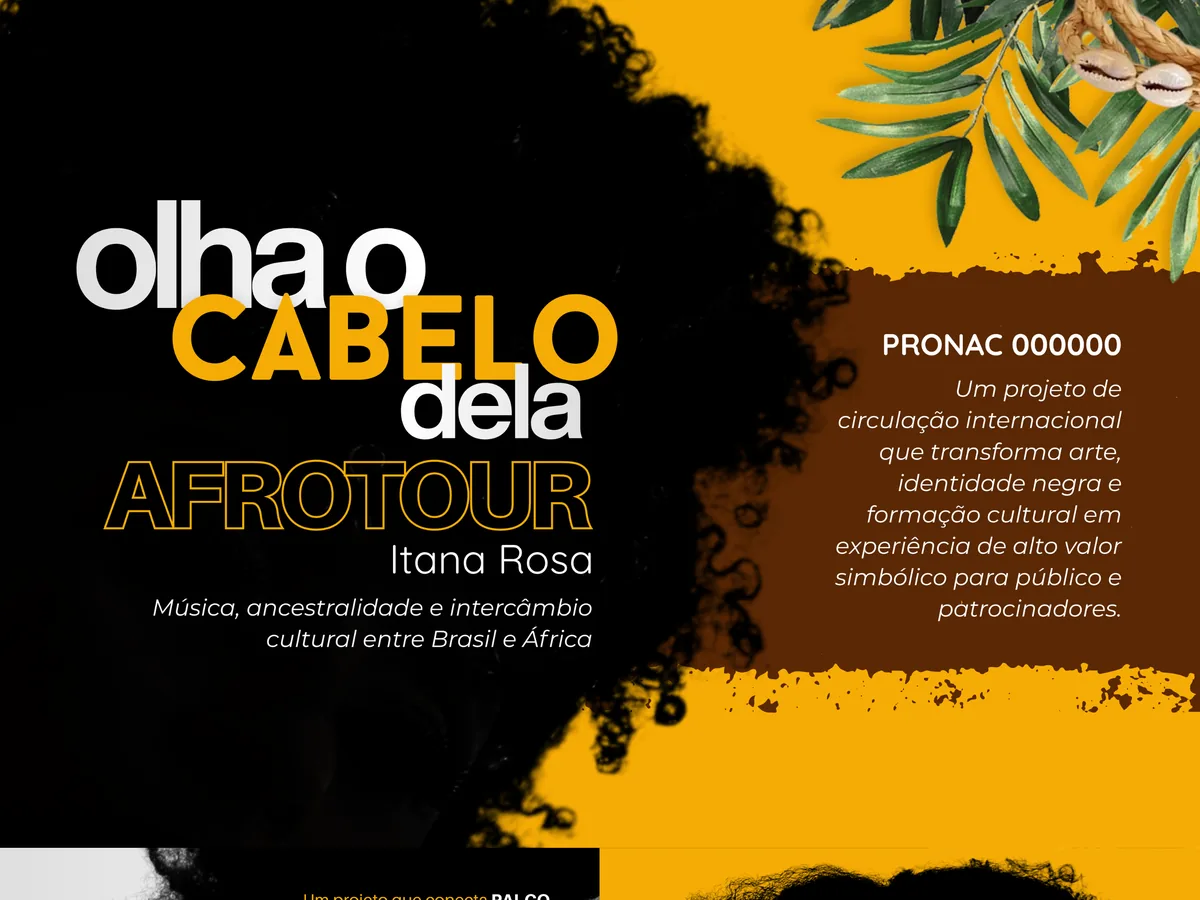
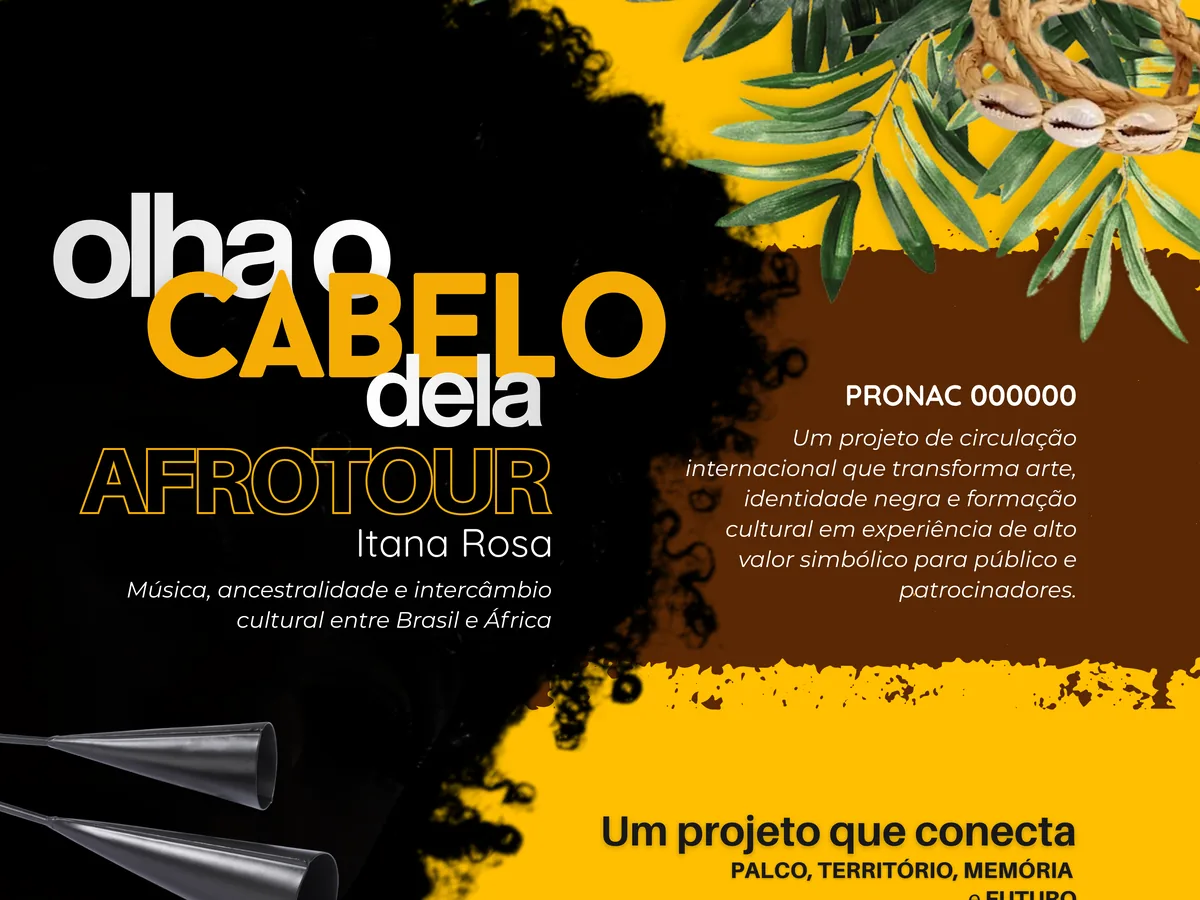
Olha o Cabelo dela: imagem nova do Drive e ficha narrativa; Orquestra sem a citação do maestro
Claude-Session: https://claude.ai/code/session_01RLZUj9rjpzXsmc93EoFHZf

diff --git a/assets/dados/trabalhos.js b/assets/dados/trabalhos.js
@@ -39,16 +39,24 @@ export const TRABALHOS = [
     resumo: "Book de captação do Afrotour de Itana Rosa, projeto de circulação internacional entre Brasil e África.",
     cliente: "Tabuleiro Produções",
     proponente: "Itana Rosa",
-    local: "",
+    local: "Salvador (BA)",
     ano: "2026",
-    sobre: "",
-    proposta: "",
-    resultado: "",
-    pecas: ["Identidade visual", "Book de captação"],
+    desafio:
+      "Um projeto ainda sem patrocínio precisava de um book que fizesse uma empresa enxergar, antes do primeiro show, o valor de colocar a marca ao lado dele.",
+    sobre:
+      "Liderado pela cantora baiana Itana Rosa, o Afrotour é um projeto internacional de intercâmbio cultural entre o Brasil e o continente africano, com shows, formação artística e produção audiovisual. Ele nasce da canção autoral “Olha o cabelo dela”, que trata a estética negra como pertencimento, autoestima, ancestralidade e resistência. Para viajar, o projeto precisa de patrocínio, e o primeiro passo era apresentá-lo a quem pode investir.",
+    proposta:
+      "Escolhi o cabelo crespo como fio condutor do book. Ele aparece como protagonista em vários momentos, às vezes como uma silhueta que ocupa a página inteira, às vezes como moldura para o texto e para a própria artista. O preto, o amarelo e o marrom, junto com búzios, folhas e o agogô, fazem a ponte entre a Bahia e a África. A tipografia pesada leva o mesmo recado da canção: a identidade como marca de força e coragem.",
+    resultado:
+      "O book está pronto e é hoje o material com que a Tabuleiro apresenta o Afrotour a possíveis patrocinadores. Ele termina com um convite direto para que a empresa interessada converse com a produção. O projeto aguarda patrocínio para começar a circular.",
+    regua:
+      "Como o projeto ainda busca patrocínio, a régua de marcas ainda não existe. Por enquanto, o book fecha com a assinatura da Tabuleiro e o contato direto da produção.",
+    pecas: { Apresentação: ["Book de captação"] },
     capa: "/assets/imagens/trabalhos/olha-o-cabelo-dela/capa.webp",
     midias: [
       "/assets/imagens/trabalhos/olha-o-cabelo-dela/parte-01.webp",
       "/assets/imagens/trabalhos/olha-o-cabelo-dela/parte-02.webp",
+      "/assets/imagens/trabalhos/olha-o-cabelo-dela/parte-03.webp",
     ],
   },
   {
@@ -111,7 +119,7 @@ export const TRABALHOS = [
     proposta:
       "Comecei pela marca que a orquestra já tinha. Tirei dela as cores quentes e equilibrei com azuis, para que o plano transmitisse seriedade a um patrocinador sem perder a energia de uma orquestra jovem. Os instrumentos viraram protagonistas das peças, recortados em blocos geométricos que lembram a tradição sem deixá-la pesada. Com essa base pronta, desenhei o book de captação, os materiais de alunos e equipe e a campanha de inscrições.",
     resultado:
-      "O projeto conta hoje com patrocínio da TAG, pelo Fazcultura, do Governo da Bahia. Nas redes, a mesma linguagem abriu inscrições para aulas gratuitas de violão e bateria, voltadas a jovens de 10 a 15 anos em São Félix. No depoimento que deixou aqui, o maestro conta que não imaginava ver a comunicação visual da orquestra ganhar esse impulso.",
+      "O projeto conta hoje com patrocínio da TAG, pelo Fazcultura, do Governo da Bahia. Nas redes, a mesma linguagem abriu inscrições para aulas gratuitas de violão e bateria, voltadas a jovens de 10 a 15 anos em São Félix.",
     regua:
       "Realização, apoio e patrocínio, com o Fazcultura e o Governo da Bahia, aplicados nas costas das camisas, na ecobag, no squeeze, na papelaria e no banner, e no card final de cada carrossel da campanha de inscrições.",
     pecas: {

diff --git a/ferramentas/processar_imagens.py b/ferramentas/processar_imagens.py
@@ -12,7 +12,7 @@ DESTINO = sys.argv[1]
 SO = set(sys.argv[2].split(",")) if len(sys.argv) > 2 else None
 LARG, ALT_MAX = 1400, 2100
 MAPA = {
-  "olha-o-cabelo-dela": "arq/BOOK - OLHA O CABELO DELA – AFROTOUR (2).png",
+  "olha-o-cabelo-dela": "arq/Olha o Cabelo dela.png",
   "nanda-sabores-e-afetos": "arq/DIVERSOS MATERIAIS -NANDA.png",
   "forro-zevixe": "arq/PORTFOLIO FZV - 2024 (1).png",
   "antropofagia-mapping": "arq/PROJETO ANMA.png",
